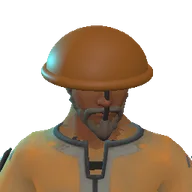
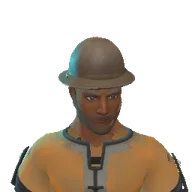
Portraits: Sprout, Warden and Engineer with their refitted gear
Claude-Session: https://claude.ai/code/session_01PfNGaHafsFeFAcWZgUEzoB

diff --git a/packages/client/src/frontend/portraitIndex.ts b/packages/client/src/frontend/portraitIndex.ts
@@ -34,7 +34,7 @@ export const SHIPPED_PORTRAITS: Readonly<Record<string, string>> = {
   'core.dustycolt': 'core.dustycolt.webp?v=2365df573d',
   'core.elder': 'core.elder.webp?v=064f1fb8f5',
   'core.ember': 'core.ember.webp?v=4cee8aaf7b',
-  'core.engineer': 'core.engineer.webp?v=422e387007',
+  'core.engineer': 'core.engineer.webp?v=56dd7979d8',
   'core.farmhand': 'core.farmhand.webp?v=cf8305dc03',
   'core.frost': 'core.frost.webp?v=70110d7db5',
   'core.galloway': 'core.galloway.webp?v=6e1b99dff6',
@@ -74,7 +74,7 @@ export const SHIPPED_PORTRAITS: Readonly<Record<string, string>> = {
   'core.shambler': 'core.shambler.webp?v=935dc336c2',
   'core.shiba': 'core.shiba.webp?v=670ab1ac8f',
   'core.snikkit': 'core.snikkit.webp?v=d8ed56a37c',
-  'core.sprout': 'core.sprout.webp?v=77b41cc96c',
+  'core.sprout': 'core.sprout.webp?v=ac68ec9d96',
   'core.t350': 'core.t350.webp?v=b718aa477c',
   'core.teddy': 'core.teddy.webp?v=c70cc9263a',
   'core.thornweaver': 'core.thornweaver.webp?v=17b1333a7d',
@@ -82,7 +82,7 @@ export const SHIPPED_PORTRAITS: Readonly<Record<string, string>> = {
   'core.unclebao': 'core.unclebao.webp?v=942f1fa6fc',
   'core.vanguard': 'core.vanguard.webp?v=b068776e8c',
   'core.visitor': 'core.visitor.webp?v=8f30e357e2',
-  'core.warden': 'core.warden.webp?v=f8f50fd853',
+  'core.warden': 'core.warden.webp?v=3302637426',
   'core.warlord': 'core.warlord.webp?v=5d340aaa9f',
   'core.wayfarer': 'core.wayfarer.webp?v=e3d4b89af6',
   'core.zhao': 'core.zhao.webp?v=e748bb0f1d',
